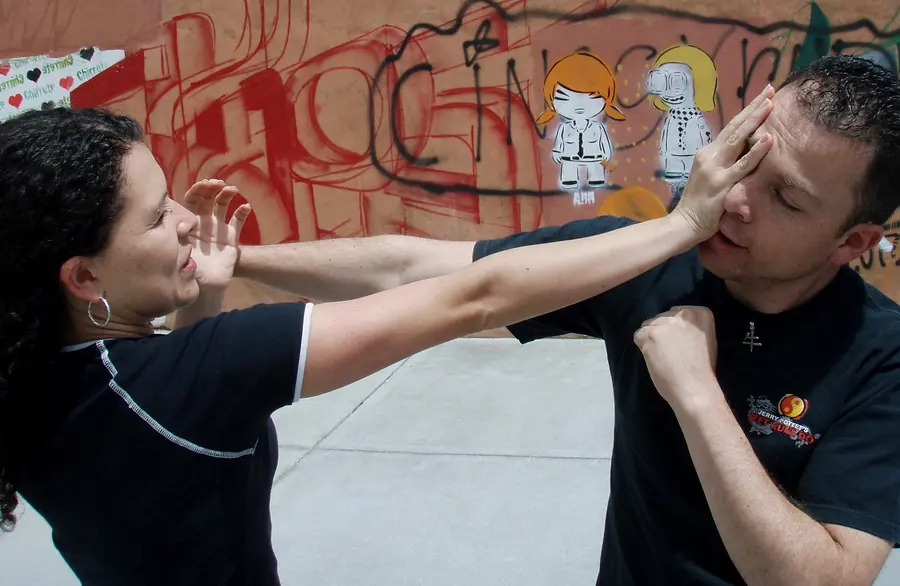
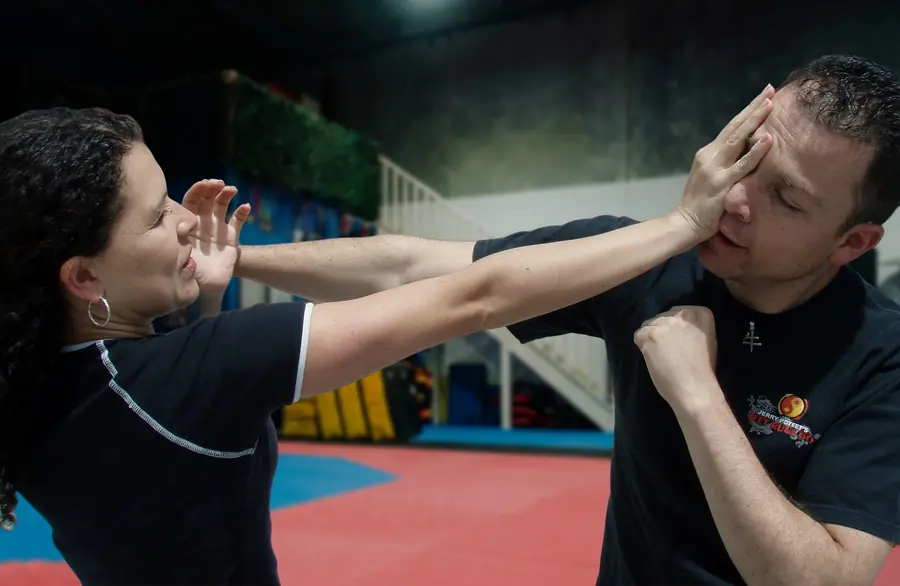
Taller de mujeres: héroe dentro de la academia
- Pareja original (recorte con píxeles originales) sobre la sala real de la academia vaciada
- Alt EN/ES actualizado; og.jpg nuevo; ?v=5 en las imágenes del héroe

diff --git a/vercel-app/i18n.js b/vercel-app/i18n.js
@@ -85,24 +85,24 @@ window.I18N = {
     'rel.h2.home': 'Guides for beginners',
     'rel.h2.legacy': 'Go deeper into Jeet Kune Do',
     'rel.h2.way': 'Before your first class',
-    'rel.best-martial-art-for-self-defence.t': 'What is the best martial art for self-defence? An honest comparison',
-    'rel.best-martial-art-for-self-defence.d': 'Is there a best martial art for self-defence? An honest look at Krav Maga, BJJ, Muay Thai, boxing, Wing Chun and JKD, from a Melbourne academy.',
-    'rel.best-martial-art-for-self-defence.k': 'Self-defence',
-    'rel.what-is-jeet-kune-do.t': 'What Is Jeet Kune Do? A Clear Guide to Bruce Lee\'s Martial Art',
-    'rel.what-is-jeet-kune-do.d': 'What is Jeet Kune Do? Bruce Lee\'s 1967 martial art explained: meaning, principles, ranges, training today and where to learn authentic JKD in Melbourne.',
-    'rel.what-is-jeet-kune-do.k': 'Jeet Kune Do',
-    'rel.is-jeet-kune-do-effective.t': 'Is Jeet Kune Do effective in a real fight?',
-    'rel.is-jeet-kune-do-effective.d': 'Is Jeet Kune Do effective in a real fight? An honest look at JKD self-defence: alive training, fair criticisms, lineage and how we train in Melbourne.',
-    'rel.is-jeet-kune-do-effective.k': 'Jeet Kune Do',
     'rel.how-to-choose-self-defence-classes-melbourne.t': 'How to choose a self-defence class in Melbourne (a checklist)',
     'rel.how-to-choose-self-defence-classes-melbourne.d': 'How to choose self defence classes in Melbourne: questions to ask, red flags, real costs and a checklist table. Free first class at JKD Legacy, Maidstone.',
     'rel.how-to-choose-self-defence-classes-melbourne.k': 'Melbourne',
-    'rel.starting-martial-arts-as-an-adult.t': 'Starting martial arts as an adult: is it too late?',
-    'rel.starting-martial-arts-as-an-adult.d': 'Starting martial arts as an adult? It\'s not too late. Practical advice for adult beginners on fitness, injuries, schedules and costs in Melbourne.',
-    'rel.starting-martial-arts-as-an-adult.k': 'Beginners',
+    'rel.is-jeet-kune-do-effective.t': 'Is Jeet Kune Do effective in a real fight?',
+    'rel.is-jeet-kune-do-effective.d': 'Is Jeet Kune Do effective in a real fight? An honest look at JKD self-defence: alive training, fair criticisms, lineage and how we train in Melbourne.',
+    'rel.is-jeet-kune-do-effective.k': 'Jeet Kune Do',
+    'rel.what-is-jeet-kune-do.t': 'What Is Jeet Kune Do? A Clear Guide to Bruce Lee\'s Martial Art',
+    'rel.what-is-jeet-kune-do.d': 'What is Jeet Kune Do? Bruce Lee\'s 1967 martial art explained: meaning, principles, ranges, training today and where to learn authentic JKD in Melbourne.',
+    'rel.what-is-jeet-kune-do.k': 'Jeet Kune Do',
+    'rel.best-martial-art-for-self-defence.t': 'What is the best martial art for self-defence? An honest comparison',
+    'rel.best-martial-art-for-self-defence.d': 'Is there a best martial art for self-defence? An honest look at Krav Maga, BJJ, Muay Thai, boxing, Wing Chun and JKD, from a Melbourne academy.',
+    'rel.best-martial-art-for-self-defence.k': 'Self-defence',
     'rel.jeet-kune-do-vs-wing-chun.t': 'Jeet Kune Do vs Wing Chun: what\'s the difference?',
     'rel.jeet-kune-do-vs-wing-chun.d': 'Jeet Kune Do vs Wing Chun: what Bruce Lee kept from Ip Man\'s Wing Chun, what he changed, and a side-by-side comparison. JKD classes in Melbourne.',
     'rel.jeet-kune-do-vs-wing-chun.k': 'Styles compared',
+    'rel.starting-martial-arts-as-an-adult.t': 'Starting martial arts as an adult: is it too late?',
+    'rel.starting-martial-arts-as-an-adult.d': 'Starting martial arts as an adult? It\'s not too late. Practical advice for adult beginners on fitness, injuries, schedules and costs in Melbourne.',
+    'rel.starting-martial-arts-as-an-adult.k': 'Beginners',
     'rel.first-jeet-kune-do-class.t': 'Your First Jeet Kune Do Class: What to Expect',
     'rel.first-jeet-kune-do-class.d': 'Your first Jeet Kune Do class in Melbourne: how booking works, what to wear, the 60-minute class, fitness, sparring and etiquette. First class free.',
     'rel.first-jeet-kune-do-class.k': 'Beginners',
@@ -651,24 +651,24 @@ window.I18N = {
     'rel.h2.home': 'Guías para empezar',
     'rel.h2.legacy': 'Profundiza en el Jeet Kune Do',
     'rel.h2.way': 'Antes de tu primera clase',
-    'rel.best-martial-art-for-self-defence.t': '¿Cuál es el mejor arte marcial para defensa personal? Una comparación honesta',
-    'rel.best-martial-art-for-self-defence.d': 'Mejor arte marcial para defensa personal: una mirada honesta a Krav Maga, BJJ, Muay Thai, boxeo, Wing Chun y JKD, desde una academia de Melbourne.',
-    'rel.best-martial-art-for-self-defence.k': 'Defensa personal',
-    'rel.what-is-jeet-kune-do.t': '¿Qué es el Jeet Kune Do? Guía clara del arte marcial de Bruce Lee',
-    'rel.what-is-jeet-kune-do.d': 'Qué es el Jeet Kune Do, el arte marcial que Bruce Lee creó en 1967: significado, principios, rangos, entrenamiento y dónde aprender JKD en Melbourne.',
-    'rel.what-is-jeet-kune-do.k': 'Jeet Kune Do',
-    'rel.is-jeet-kune-do-effective.t': '¿Es efectivo el Jeet Kune Do en una pelea real?',
-    'rel.is-jeet-kune-do-effective.d': '¿Es efectivo el Jeet Kune Do en una pelea real? Una mirada honesta a la defensa personal JKD: entrenamiento vivo, críticas justas y linaje en Melbourne.',
-    'rel.is-jeet-kune-do-effective.k': 'Jeet Kune Do',
     'rel.how-to-choose-self-defence-classes-melbourne.t': 'Cómo elegir una clase de defensa personal en Melbourne (lista de verificación)',
     'rel.how-to-choose-self-defence-classes-melbourne.d': 'Clases de defensa personal en Melbourne: qué preguntar, señales de alerta, costos reales y una tabla para comparar. Primera clase gratis en Maidstone.',
     'rel.how-to-choose-self-defence-classes-melbourne.k': 'Melbourne',
-    'rel.starting-martial-arts-as-an-adult.t': 'Empezar artes marciales de adulto: ¿es demasiado tarde?',
-    'rel.starting-martial-arts-as-an-adult.d': 'Artes marciales para adultos principiantes: nunca es tarde para empezar. Consejos prácticos sobre condición física, lesiones, horarios y precios en Melbourne.',
-    'rel.starting-martial-arts-as-an-adult.k': 'Principiantes',
+    'rel.is-jeet-kune-do-effective.t': '¿Es efectivo el Jeet Kune Do en una pelea real?',
+    'rel.is-jeet-kune-do-effective.d': '¿Es efectivo el Jeet Kune Do en una pelea real? Una mirada honesta a la defensa personal JKD: entrenamiento vivo, críticas justas y linaje en Melbourne.',
+    'rel.is-jeet-kune-do-effective.k': 'Jeet Kune Do',
+    'rel.what-is-jeet-kune-do.t': '¿Qué es el Jeet Kune Do? Guía clara del arte marcial de Bruce Lee',
+    'rel.what-is-jeet-kune-do.d': 'Qué es el Jeet Kune Do, el arte marcial que Bruce Lee creó en 1967: significado, principios, rangos, entrenamiento y dónde aprender JKD en Melbourne.',
+    'rel.what-is-jeet-kune-do.k': 'Jeet Kune Do',
+    'rel.best-martial-art-for-self-defence.t': '¿Cuál es el mejor arte marcial para defensa personal? Una comparación honesta',
+    'rel.best-martial-art-for-self-defence.d': 'Mejor arte marcial para defensa personal: una mirada honesta a Krav Maga, BJJ, Muay Thai, boxeo, Wing Chun y JKD, desde una academia de Melbourne.',
+    'rel.best-martial-art-for-self-defence.k': 'Defensa personal',
     'rel.jeet-kune-do-vs-wing-chun.t': 'Jeet Kune Do vs Wing Chun: ¿cuál es la diferencia?',
     'rel.jeet-kune-do-vs-wing-chun.d': 'Jeet Kune Do vs Wing Chun: qué conservó Bruce Lee del Wing Chun de Ip Man, qué cambió y una comparación lado a lado. Clases de JKD en Melbourne.',
     'rel.jeet-kune-do-vs-wing-chun.k': 'Estilos comparados',
+    'rel.starting-martial-arts-as-an-adult.t': 'Empezar artes marciales de adulto: ¿es demasiado tarde?',
+    'rel.starting-martial-arts-as-an-adult.d': 'Artes marciales para adultos principiantes: nunca es tarde para empezar. Consejos prácticos sobre condición física, lesiones, horarios y precios en Melbourne.',
+    'rel.starting-martial-arts-as-an-adult.k': 'Principiantes',
     'rel.first-jeet-kune-do-class.t': 'Tu primera clase de Jeet Kune Do: qué esperar',
     'rel.first-jeet-kune-do-class.d': 'Tu primera clase de Jeet Kune Do en Melbourne: cómo reservar, qué ponerte, la clase de 60 minutos, estado físico, sparring y etiqueta. Primera clase gratis.',
     'rel.first-jeet-kune-do-class.k': 'Principiantes',

diff --git a/vercel-app/site/i18n.js b/vercel-app/site/i18n.js
@@ -85,24 +85,24 @@ window.I18N = {
     'rel.h2.home': 'Guides for beginners',
     'rel.h2.legacy': 'Go deeper into Jeet Kune Do',
     'rel.h2.way': 'Before your first class',
-    'rel.best-martial-art-for-self-defence.t': 'What is the best martial art for self-defence? An honest comparison',
-    'rel.best-martial-art-for-self-defence.d': 'Is there a best martial art for self-defence? An honest look at Krav Maga, BJJ, Muay Thai, boxing, Wing Chun and JKD, from a Melbourne academy.',
-    'rel.best-martial-art-for-self-defence.k': 'Self-defence',
-    'rel.what-is-jeet-kune-do.t': 'What Is Jeet Kune Do? A Clear Guide to Bruce Lee\'s Martial Art',
-    'rel.what-is-jeet-kune-do.d': 'What is Jeet Kune Do? Bruce Lee\'s 1967 martial art explained: meaning, principles, ranges, training today and where to learn authentic JKD in Melbourne.',
-    'rel.what-is-jeet-kune-do.k': 'Jeet Kune Do',
-    'rel.is-jeet-kune-do-effective.t': 'Is Jeet Kune Do effective in a real fight?',
-    'rel.is-jeet-kune-do-effective.d': 'Is Jeet Kune Do effective in a real fight? An honest look at JKD self-defence: alive training, fair criticisms, lineage and how we train in Melbourne.',
-    'rel.is-jeet-kune-do-effective.k': 'Jeet Kune Do',
     'rel.how-to-choose-self-defence-classes-melbourne.t': 'How to choose a self-defence class in Melbourne (a checklist)',
     'rel.how-to-choose-self-defence-classes-melbourne.d': 'How to choose self defence classes in Melbourne: questions to ask, red flags, real costs and a checklist table. Free first class at JKD Legacy, Maidstone.',
     'rel.how-to-choose-self-defence-classes-melbourne.k': 'Melbourne',
-    'rel.starting-martial-arts-as-an-adult.t': 'Starting martial arts as an adult: is it too late?',
-    'rel.starting-martial-arts-as-an-adult.d': 'Starting martial arts as an adult? It\'s not too late. Practical advice for adult beginners on fitness, injuries, schedules and costs in Melbourne.',
-    'rel.starting-martial-arts-as-an-adult.k': 'Beginners',
+    'rel.is-jeet-kune-do-effective.t': 'Is Jeet Kune Do effective in a real fight?',
+    'rel.is-jeet-kune-do-effective.d': 'Is Jeet Kune Do effective in a real fight? An honest look at JKD self-defence: alive training, fair criticisms, lineage and how we train in Melbourne.',
+    'rel.is-jeet-kune-do-effective.k': 'Jeet Kune Do',
+    'rel.what-is-jeet-kune-do.t': 'What Is Jeet Kune Do? A Clear Guide to Bruce Lee\'s Martial Art',
+    'rel.what-is-jeet-kune-do.d': 'What is Jeet Kune Do? Bruce Lee\'s 1967 martial art explained: meaning, principles, ranges, training today and where to learn authentic JKD in Melbourne.',
+    'rel.what-is-jeet-kune-do.k': 'Jeet Kune Do',
+    'rel.best-martial-art-for-self-defence.t': 'What is the best martial art for self-defence? An honest comparison',
+    'rel.best-martial-art-for-self-defence.d': 'Is there a best martial art for self-defence? An honest look at Krav Maga, BJJ, Muay Thai, boxing, Wing Chun and JKD, from a Melbourne academy.',
+    'rel.best-martial-art-for-self-defence.k': 'Self-defence',
     'rel.jeet-kune-do-vs-wing-chun.t': 'Jeet Kune Do vs Wing Chun: what\'s the difference?',
     'rel.jeet-kune-do-vs-wing-chun.d': 'Jeet Kune Do vs Wing Chun: what Bruce Lee kept from Ip Man\'s Wing Chun, what he changed, and a side-by-side comparison. JKD classes in Melbourne.',
     'rel.jeet-kune-do-vs-wing-chun.k': 'Styles compared',
+    'rel.starting-martial-arts-as-an-adult.t': 'Starting martial arts as an adult: is it too late?',
+    'rel.starting-martial-arts-as-an-adult.d': 'Starting martial arts as an adult? It\'s not too late. Practical advice for adult beginners on fitness, injuries, schedules and costs in Melbourne.',
+    'rel.starting-martial-arts-as-an-adult.k': 'Beginners',
     'rel.first-jeet-kune-do-class.t': 'Your First Jeet Kune Do Class: What to Expect',
     'rel.first-jeet-kune-do-class.d': 'Your first Jeet Kune Do class in Melbourne: how booking works, what to wear, the 60-minute class, fitness, sparring and etiquette. First class free.',
     'rel.first-jeet-kune-do-class.k': 'Beginners',
@@ -651,24 +651,24 @@ window.I18N = {
     'rel.h2.home': 'Guías para empezar',
     'rel.h2.legacy': 'Profundiza en el Jeet Kune Do',
     'rel.h2.way': 'Antes de tu primera clase',
-    'rel.best-martial-art-for-self-defence.t': '¿Cuál es el mejor arte marcial para defensa personal? Una comparación honesta',
-    'rel.best-martial-art-for-self-defence.d': 'Mejor arte marcial para defensa personal: una mirada honesta a Krav Maga, BJJ, Muay Thai, boxeo, Wing Chun y JKD, desde una academia de Melbourne.',
-    'rel.best-martial-art-for-self-defence.k': 'Defensa personal',
-    'rel.what-is-jeet-kune-do.t': '¿Qué es el Jeet Kune Do? Guía clara del arte marcial de Bruce Lee',
-    'rel.what-is-jeet-kune-do.d': 'Qué es el Jeet Kune Do, el arte marcial que Bruce Lee creó en 1967: significado, principios, rangos, entrenamiento y dónde aprender JKD en Melbourne.',
-    'rel.what-is-jeet-kune-do.k': 'Jeet Kune Do',
-    'rel.is-jeet-kune-do-effective.t': '¿Es efectivo el Jeet Kune Do en una pelea real?',
-    'rel.is-jeet-kune-do-effective.d': '¿Es efectivo el Jeet Kune Do en una pelea real? Una mirada honesta a la defensa personal JKD: entrenamiento vivo, críticas justas y linaje en Melbourne.',
-    'rel.is-jeet-kune-do-effective.k': 'Jeet Kune Do',
     'rel.how-to-choose-self-defence-classes-melbourne.t': 'Cómo elegir una clase de defensa personal en Melbourne (lista de verificación)',
     'rel.how-to-choose-self-defence-classes-melbourne.d': 'Clases de defensa personal en Melbourne: qué preguntar, señales de alerta, costos reales y una tabla para comparar. Primera clase gratis en Maidstone.',
     'rel.how-to-choose-self-defence-classes-melbourne.k': 'Melbourne',
-    'rel.starting-martial-arts-as-an-adult.t': 'Empezar artes marciales de adulto: ¿es demasiado tarde?',
-    'rel.starting-martial-arts-as-an-adult.d': 'Artes marciales para adultos principiantes: nunca es tarde para empezar. Consejos prácticos sobre condición física, lesiones, horarios y precios en Melbourne.',
-    'rel.starting-martial-arts-as-an-adult.k': 'Principiantes',
+    'rel.is-jeet-kune-do-effective.t': '¿Es efectivo el Jeet Kune Do en una pelea real?',
+    'rel.is-jeet-kune-do-effective.d': '¿Es efectivo el Jeet Kune Do en una pelea real? Una mirada honesta a la defensa personal JKD: entrenamiento vivo, críticas justas y linaje en Melbourne.',
+    'rel.is-jeet-kune-do-effective.k': 'Jeet Kune Do',
+    'rel.what-is-jeet-kune-do.t': '¿Qué es el Jeet Kune Do? Guía clara del arte marcial de Bruce Lee',
+    'rel.what-is-jeet-kune-do.d': 'Qué es el Jeet Kune Do, el arte marcial que Bruce Lee creó en 1967: significado, principios, rangos, entrenamiento y dónde aprender JKD en Melbourne.',
+    'rel.what-is-jeet-kune-do.k': 'Jeet Kune Do',
+    'rel.best-martial-art-for-self-defence.t': '¿Cuál es el mejor arte marcial para defensa personal? Una comparación honesta',
+    'rel.best-martial-art-for-self-defence.d': 'Mejor arte marcial para defensa personal: una mirada honesta a Krav Maga, BJJ, Muay Thai, boxeo, Wing Chun y JKD, desde una academia de Melbourne.',
+    'rel.best-martial-art-for-self-defence.k': 'Defensa personal',
     'rel.jeet-kune-do-vs-wing-chun.t': 'Jeet Kune Do vs Wing Chun: ¿cuál es la diferencia?',
     'rel.jeet-kune-do-vs-wing-chun.d': 'Jeet Kune Do vs Wing Chun: qué conservó Bruce Lee del Wing Chun de Ip Man, qué cambió y una comparación lado a lado. Clases de JKD en Melbourne.',
     'rel.jeet-kune-do-vs-wing-chun.k': 'Estilos comparados',
+    'rel.starting-martial-arts-as-an-adult.t': 'Empezar artes marciales de adulto: ¿es demasiado tarde?',
+    'rel.starting-martial-arts-as-an-adult.d': 'Artes marciales para adultos principiantes: nunca es tarde para empezar. Consejos prácticos sobre condición física, lesiones, horarios y precios en Melbourne.',
+    'rel.starting-martial-arts-as-an-adult.k': 'Principiantes',
     'rel.first-jeet-kune-do-class.t': 'Tu primera clase de Jeet Kune Do: qué esperar',
     'rel.first-jeet-kune-do-class.d': 'Tu primera clase de Jeet Kune Do en Melbourne: cómo reservar, qué ponerte, la clase de 60 minutos, estado físico, sparring y etiqueta. Primera clase gratis.',
     'rel.first-jeet-kune-do-class.k': 'Principiantes',

diff --git a/vercel-app/site/womens-self-defence-workshop.es.html b/vercel-app/site/womens-self-defence-workshop.es.html
@@ -173,8 +173,8 @@
 .ws-tiers{grid-template-columns:1fr}.ws-fab{left:12px;right:12px;bottom:12px}.ws-fab a{justify-content:space-between}.ws-time::before{left:54px}.ws-time li{grid-template-columns:44px 1fr;gap:26px}.ws-time li::before{left:49px}.ws-price-b b{font-size:2rem}}
 @media (prefers-reduced-motion:reduce){.ws-lv,.ws-fab,.ws-fab a{transition:none}}
 </style>
-<link as="image" fetchpriority="high" href="/images/workshop/hero-1600.webp?v=4" media="(min-width: 901px)" rel="preload"/>
-<link as="image" fetchpriority="high" href="/images/workshop/hero-m-900.webp?v=4" media="(max-width: 900px)" rel="preload"/>
+<link as="image" fetchpriority="high" href="/images/workshop/hero-1600.webp?v=5" media="(min-width: 901px)" rel="preload"/>
+<link as="image" fetchpriority="high" href="/images/workshop/hero-m-900.webp?v=5" media="(max-width: 900px)" rel="preload"/>
 <meta content="Taller de defensa personal para mujeres en JKD Legacy Academy" property="og:image:alt"/>
 <style id="ux">:root{--focus:#8fbdf7}.skip-link{position:fixed;left:16px;top:12px;z-index:10000;padding:13px 20px;border-radius:8px;background:#f4f1ea;color:#0b0c10;font:600 1rem/1.2 var(--sans);text-decoration:none;transform:translateY(-220%);transition:transform .15s ease-out}.skip-link:focus{transform:none}:focus-visible{outline:3px solid var(--focus);outline-offset:2px}.paper :focus-visible{outline-color:#1f5bbf}input:focus-visible,select:focus-visible,textarea:focus-visible,button:focus-visible{outline:3px solid var(--focus);outline-offset:2px}[id]{scroll-margin-top:96px}.nav-links .lang-switch a.active,.bd-nav .lang-switch a.active{background:var(--accent-deep)}.eyebrow{color:var(--accent-2)}.paper{--text-mute:#5f594c}.paper .eyebrow,.paper .pathway-num,.paper .location-instructor,.paper .legacy-feature-dates,.paper .post-card-kicker,.paper .card .num,.paper .plan-per{color:var(--accent-deep)}.paper label span[style*="accent"]{color:var(--accent-deep)!important}.paper .plan.featured .plan-per{color:#7a5c12}.eyebrow,.crumbs,.quick-answer strong.qa-label,.post-card-kicker,.location-instructor,.legacy-feature-dates,.pathway-num,.pathway-sub,.quote-band cite,.form-group label,.footer h2,.chip,.lf-sched,.bd-kicker,.bd-meta li,.bd-count span,.bd-st .num,.bd-split-l,.nav-links>li>a,.sub-label,.nav-links .lang-switch a,.bd-nav .lang-switch a,.centerline-read,.rv-word,.btn,.card .num,.plan-per,.coach-row .where,.post-card .more,.footer-bottom,.float-cta,.map-card dt{font-size:.75rem}.footer-bottom span:last-child{font-size:.92rem}.thanks .note,.errpage .note{font-size:.8125rem}.lineage-card-bio{max-width:68ch}.form-control,.lf-card .form-control,.bd-f input,.bd-f select{font-size:1rem}.lf-row,.form-row,.ft-row,.bd-row{grid-template-columns:1fr!important;column-gap:0!important}#book .form-group:has(:required)>label::after,#trial-form .form-group:has(:required)>label::after,#bday-form .bd-f:has(:required)>label::after{content:" *";color:var(--accent-2)}.fx-err{display:flex;gap:6px;align-items:flex-start;margin:6px 0 0;color:#ffb4ae;font-size:.875rem;line-height:1.45}.paper .fx-err{color:#a1241a}.fx-err svg{width:16px;height:16px;flex:none;margin-top:2px}.form-control[aria-invalid="true"],.bd-f [aria-invalid="true"]{border-color:#e5484d}.btn:active,.lf-submit:active{transform:translateY(1px)}.prose p,.prose li{max-width:68ch}.faq-a p{max-width:64ch}.legal p,.legal li{max-width:70ch}@media (max-width:1120px){.nav-links>li>a,.nav-links .sub a,.sub-label{min-height:44px;display:flex;align-items:center}.nav-links .sub a{flex-direction:column;align-items:flex-start;justify-content:center}.nav-links .lang-switch a{min-height:44px;min-width:52px;display:inline-flex;align-items:center;justify-content:center}}@media (max-width:900px){.brand{min-height:44px;display:inline-flex;align-items:center}.bd-nav .lang-switch a{min-height:44px;min-width:44px;display:inline-flex;align-items:center;justify-content:center}.footer li a{display:inline-block;padding:11px 0}.socials a{width:44px;height:44px}.rv-links a{display:inline-block;padding:10px 0}.rv-more{padding:12px 0}.crumbs a{display:inline-block;padding:12px 4px;margin:-12px -4px}.reviews-actions a,.rating-badge a{display:inline-block;padding:10px 0}}@media (prefers-reduced-motion:reduce){html{scroll-behavior:auto}*,*::before,*::after{animation-duration:.01ms!important;animation-iteration-count:1!important;transition-duration:.01ms!important}}</style>
 </head>
@@ -194,8 +194,8 @@
 <main id="main" tabindex="-1">
 <div class="wsd"><section class="ws-hero" id="top">
 <picture>
-<source media="(max-width: 900px)" srcset="/images/workshop/hero-m-900.webp?v=4"/>
-<img alt="Una mujer empuja con la palma abierta la cara de un hombre para hacerlo retroceder y crear distancia, frente a un muro con grafitis" decoding="async" fetchpriority="high" height="1042" sizes="(max-width: 900px) 100vw, 58vw" src="/images/workshop/hero-1600.webp?v=4" srcset="/images/workshop/hero-900.webp?v=4 900w, /images/workshop/hero-1600.webp?v=4 1600w, /images/workshop/hero-2000.webp?v=4 2000w" width="1600"/>
+<source media="(max-width: 900px)" srcset="/images/workshop/hero-m-900.webp?v=5"/>
+<img alt="Una mujer empuja con la palma abierta la cara de un hombre para hacerlo retroceder y crear distancia, sobre el tatami de Jeet Kune Do Legacy Academy" decoding="async" fetchpriority="high" height="1042" sizes="(max-width: 900px) 100vw, 58vw" src="/images/workshop/hero-1600.webp?v=5" srcset="/images/workshop/hero-900.webp?v=5 900w, /images/workshop/hero-1600.webp?v=5 1600w, /images/workshop/hero-2000.webp?v=5 2000w" width="1600"/>
 </picture>
 <div class="container ws-hero-in">
 <p class="ws-kicker reveal">Taller de defensa personal real para mujeres</p>

diff --git a/vercel-app/site/womens-self-defence-workshop.html b/vercel-app/site/womens-self-defence-workshop.html
@@ -172,8 +172,8 @@
 .ws-tiers{grid-template-columns:1fr}.ws-fab{left:12px;right:12px;bottom:12px}.ws-fab a{justify-content:space-between}.ws-time::before{left:54px}.ws-time li{grid-template-columns:44px 1fr;gap:26px}.ws-time li::before{left:49px}.ws-price-b b{font-size:2rem}}
 @media (prefers-reduced-motion:reduce){.ws-lv,.ws-fab,.ws-fab a{transition:none}}
 </style>
-<link rel="preload" as="image" href="/images/workshop/hero-1600.webp?v=4" media="(min-width: 901px)" fetchpriority="high">
-<link rel="preload" as="image" href="/images/workshop/hero-m-900.webp?v=4" media="(max-width: 900px)" fetchpriority="high">
+<link rel="preload" as="image" href="/images/workshop/hero-1600.webp?v=5" media="(min-width: 901px)" fetchpriority="high">
+<link rel="preload" as="image" href="/images/workshop/hero-m-900.webp?v=5" media="(max-width: 900px)" fetchpriority="high">
 <meta property="og:image:alt" content="Women’s Real-World Self-Defence Workshop at JKD Legacy Academy">
 <style id="ux">:root{--focus:#8fbdf7}.skip-link{position:fixed;left:16px;top:12px;z-index:10000;padding:13px 20px;border-radius:8px;background:#f4f1ea;color:#0b0c10;font:600 1rem/1.2 var(--sans);text-decoration:none;transform:translateY(-220%);transition:transform .15s ease-out}.skip-link:focus{transform:none}:focus-visible{outline:3px solid var(--focus);outline-offset:2px}.paper :focus-visible{outline-color:#1f5bbf}input:focus-visible,select:focus-visible,textarea:focus-visible,button:focus-visible{outline:3px solid var(--focus);outline-offset:2px}[id]{scroll-margin-top:96px}.nav-links .lang-switch a.active,.bd-nav .lang-switch a.active{background:var(--accent-deep)}.eyebrow{color:var(--accent-2)}.paper{--text-mute:#5f594c}.paper .eyebrow,.paper .pathway-num,.paper .location-instructor,.paper .legacy-feature-dates,.paper .post-card-kicker,.paper .card .num,.paper .plan-per{color:var(--accent-deep)}.paper label span[style*="accent"]{color:var(--accent-deep)!important}.paper .plan.featured .plan-per{color:#7a5c12}.eyebrow,.crumbs,.quick-answer strong.qa-label,.post-card-kicker,.location-instructor,.legacy-feature-dates,.pathway-num,.pathway-sub,.quote-band cite,.form-group label,.footer h2,.chip,.lf-sched,.bd-kicker,.bd-meta li,.bd-count span,.bd-st .num,.bd-split-l,.nav-links>li>a,.sub-label,.nav-links .lang-switch a,.bd-nav .lang-switch a,.centerline-read,.rv-word,.btn,.card .num,.plan-per,.coach-row .where,.post-card .more,.footer-bottom,.float-cta,.map-card dt{font-size:.75rem}.footer-bottom span:last-child{font-size:.92rem}.thanks .note,.errpage .note{font-size:.8125rem}.lineage-card-bio{max-width:68ch}.form-control,.lf-card .form-control,.bd-f input,.bd-f select{font-size:1rem}.lf-row,.form-row,.ft-row,.bd-row{grid-template-columns:1fr!important;column-gap:0!important}#book .form-group:has(:required)>label::after,#trial-form .form-group:has(:required)>label::after,#bday-form .bd-f:has(:required)>label::after{content:" *";color:var(--accent-2)}.fx-err{display:flex;gap:6px;align-items:flex-start;margin:6px 0 0;color:#ffb4ae;font-size:.875rem;line-height:1.45}.paper .fx-err{color:#a1241a}.fx-err svg{width:16px;height:16px;flex:none;margin-top:2px}.form-control[aria-invalid="true"],.bd-f [aria-invalid="true"]{border-color:#e5484d}.btn:active,.lf-submit:active{transform:translateY(1px)}.prose p,.prose li{max-width:68ch}.faq-a p{max-width:64ch}.legal p,.legal li{max-width:70ch}@media (max-width:1120px){.nav-links>li>a,.nav-links .sub a,.sub-label{min-height:44px;display:flex;align-items:center}.nav-links .sub a{flex-direction:column;align-items:flex-start;justify-content:center}.nav-links .lang-switch a{min-height:44px;min-width:52px;display:inline-flex;align-items:center;justify-content:center}}@media (max-width:900px){.brand{min-height:44px;display:inline-flex;align-items:center}.bd-nav .lang-switch a{min-height:44px;min-width:44px;display:inline-flex;align-items:center;justify-content:center}.footer li a{display:inline-block;padding:11px 0}.socials a{width:44px;height:44px}.rv-links a{display:inline-block;padding:10px 0}.rv-more{padding:12px 0}.crumbs a{display:inline-block;padding:12px 4px;margin:-12px -4px}.reviews-actions a,.rating-badge a{display:inline-block;padding:10px 0}}@media (prefers-reduced-motion:reduce){html{scroll-behavior:auto}*,*::before,*::after{animation-duration:.01ms!important;animation-iteration-count:1!important;transition-duration:.01ms!important}}</style>
 </head>
@@ -195,8 +195,8 @@
 <main id="main" tabindex="-1">
 <div class="wsd"><section class="ws-hero" id="top">
   <picture>
-    <source media="(max-width: 900px)" srcset="/images/workshop/hero-m-900.webp?v=4">
-    <img src="/images/workshop/hero-1600.webp?v=4" srcset="/images/workshop/hero-900.webp?v=4 900w, /images/workshop/hero-1600.webp?v=4 1600w, /images/workshop/hero-2000.webp?v=4 2000w" sizes="(max-width: 900px) 100vw, 58vw" alt="A woman pushes her open palm into a man’s face to drive him back and create distance, in front of a graffiti wall" width="1600" height="1042" fetchpriority="high" decoding="async">
+    <source media="(max-width: 900px)" srcset="/images/workshop/hero-m-900.webp?v=5">
+    <img src="/images/workshop/hero-1600.webp?v=5" srcset="/images/workshop/hero-900.webp?v=5 900w, /images/workshop/hero-1600.webp?v=5 1600w, /images/workshop/hero-2000.webp?v=5 2000w" sizes="(max-width: 900px) 100vw, 58vw" alt="A woman pushes her open palm into a man’s face to drive him back and create distance, on the mats at Jeet Kune Do Legacy Academy" width="1600" height="1042" fetchpriority="high" decoding="async">
   </picture>
   <div class="container ws-hero-in">
     <p class="ws-kicker reveal">Women’s Real-World Self-Defence Workshop</p>
